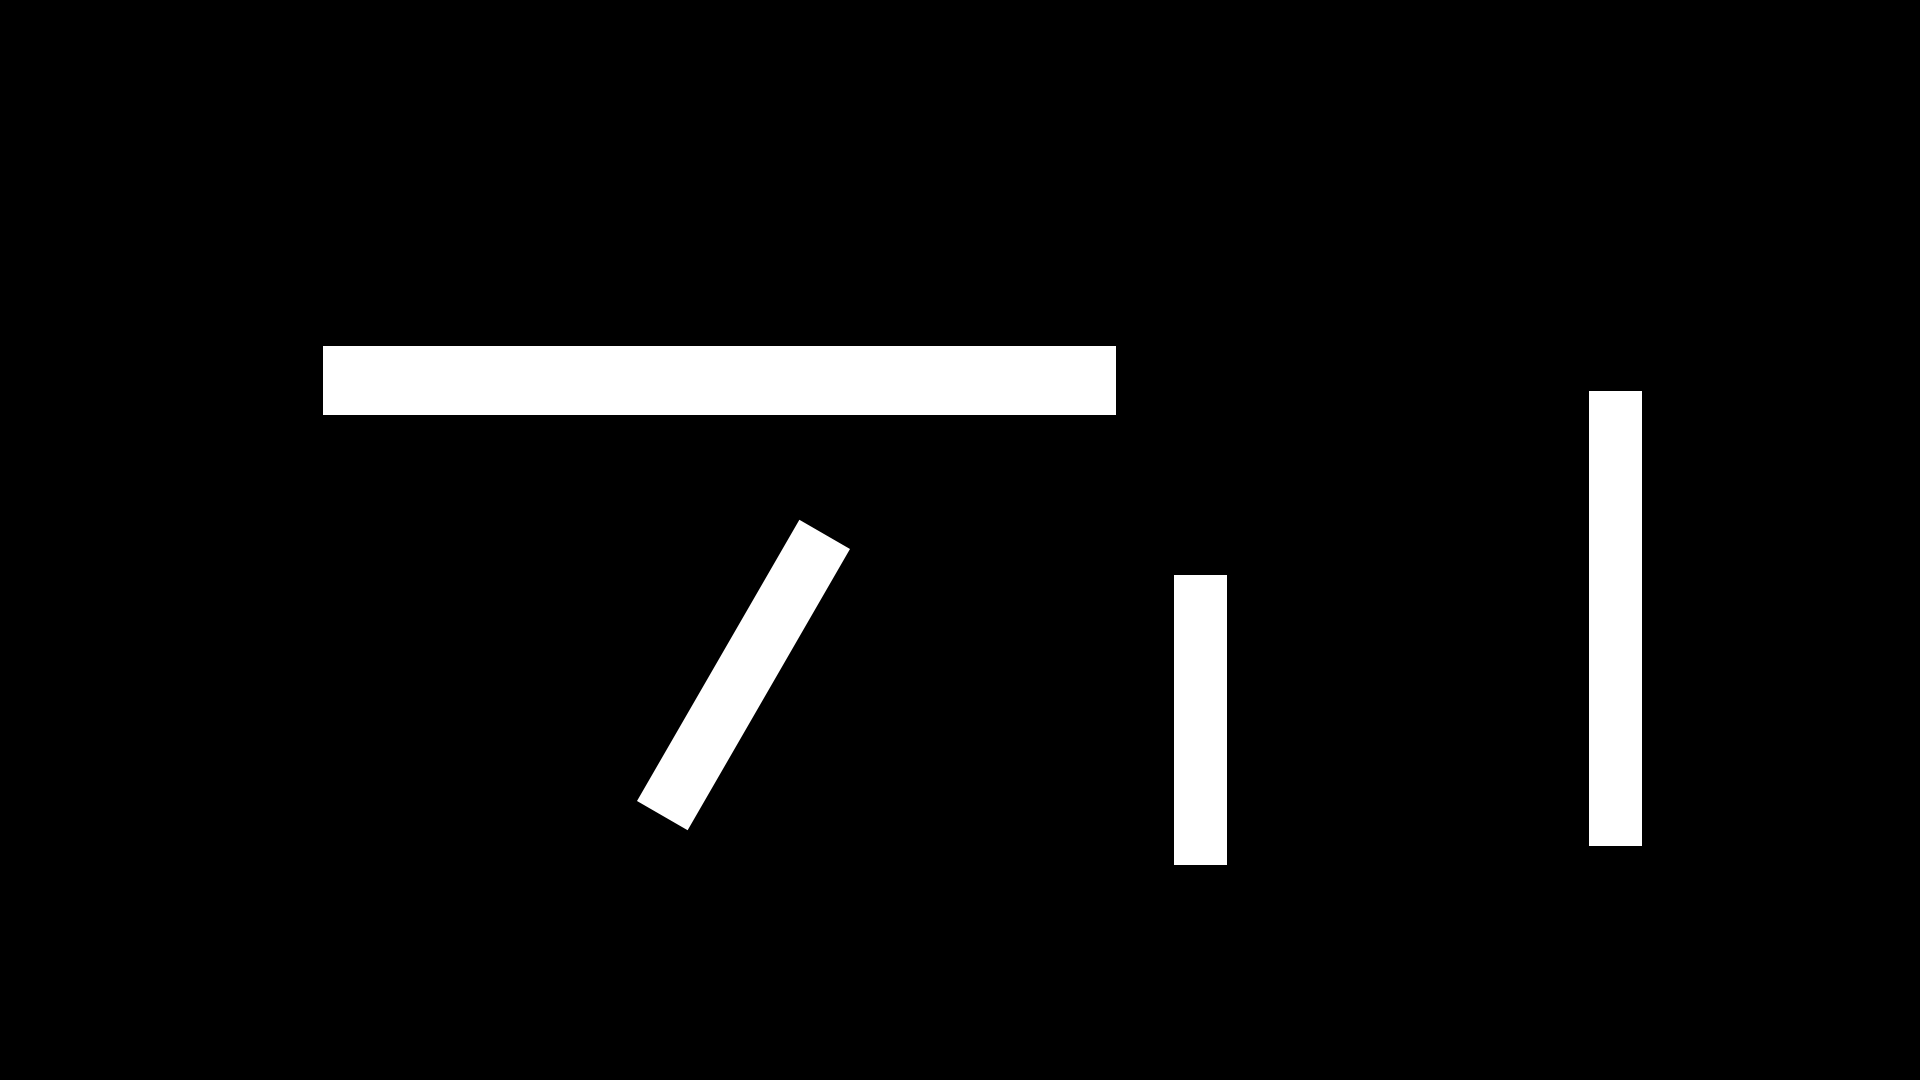
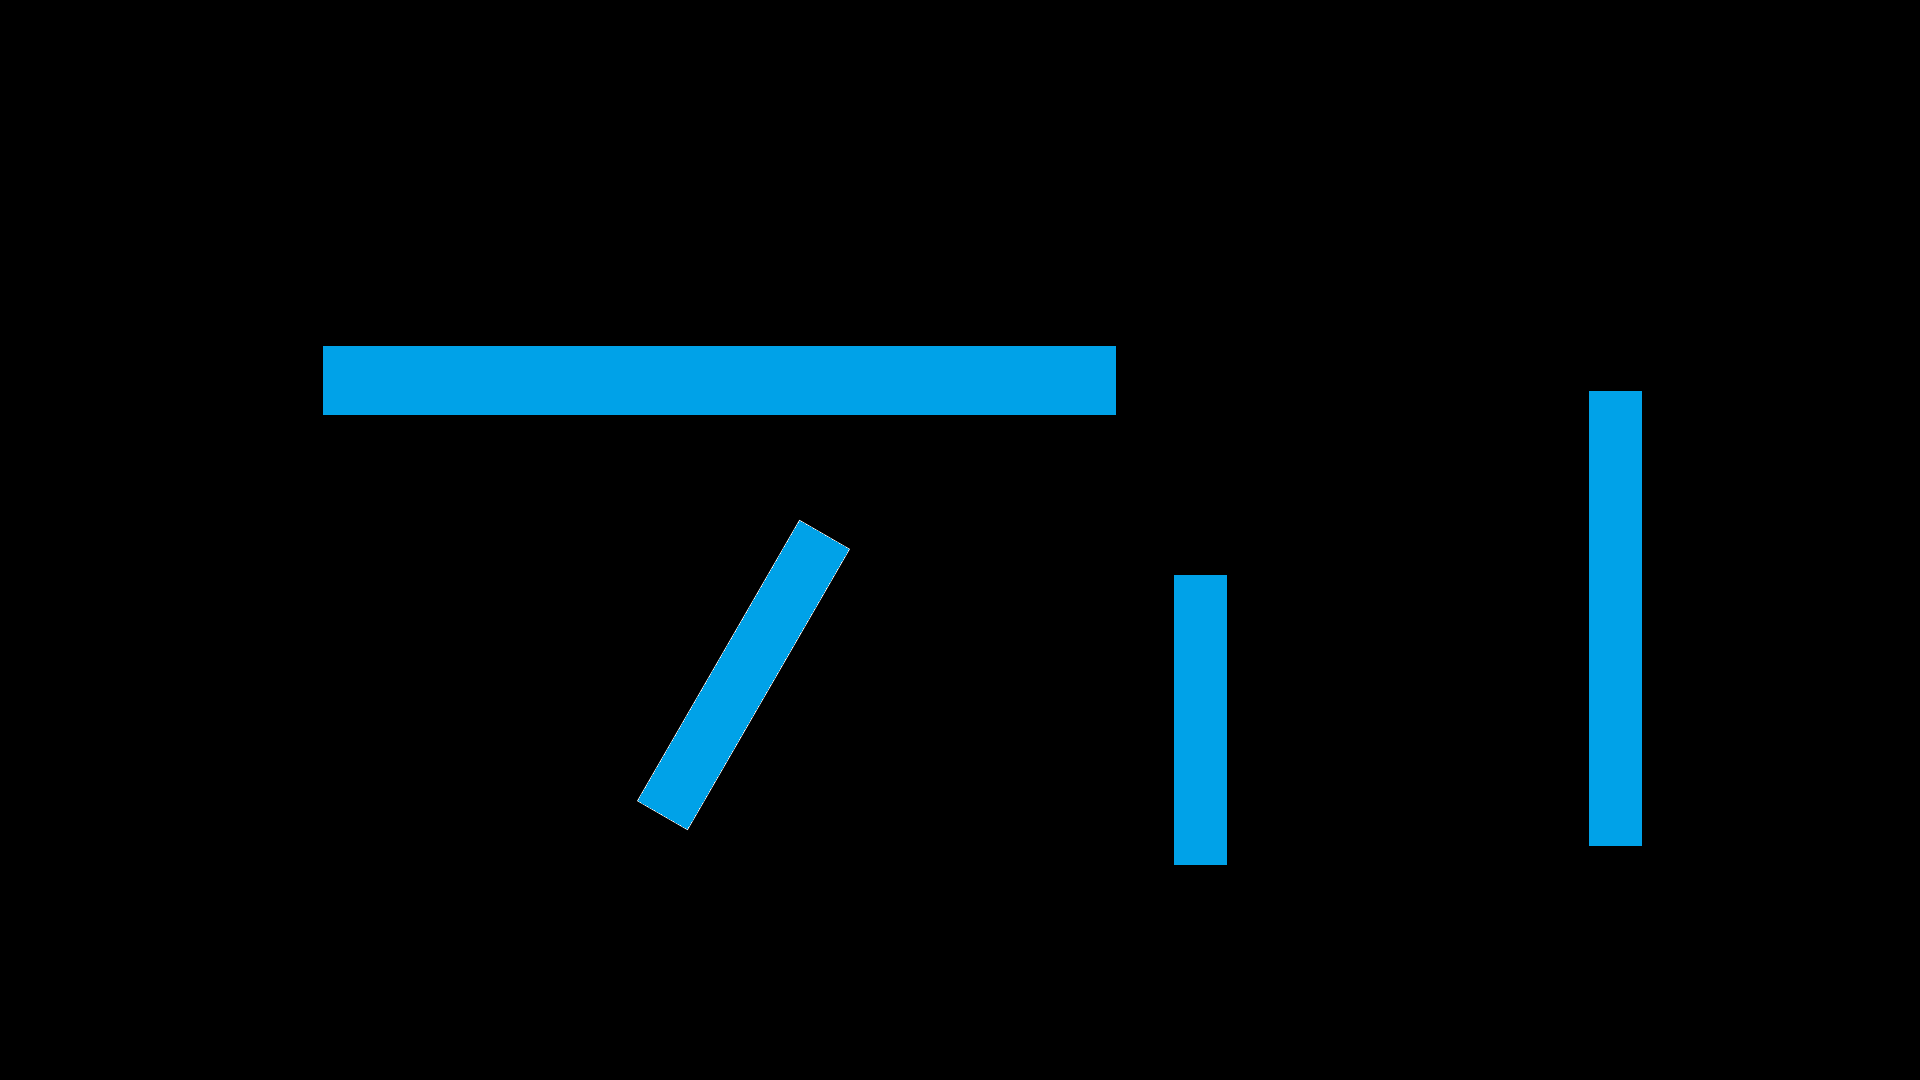
checkpoint vfx

diff --git a/layerbloom.css b/layerbloom.css
@@ -60,36 +60,11 @@ body::after {
   --get-rotX3d: 0deg;
 }
 
-/* ================= bloomsurface ================= */
-.bloomsurface {
-  position: absolute;
-  transform-style: preserve-3d;
-}
-
-.scene .bloomsurface img {
-  width: 100%;
-  height: 100%;
-  object-fit: cover;
-  filter: brightness(var(--brightness));
-}
-
-/* ================= INFO PANEL ================= */
-#info {
-  position: fixed;
-  top: 10px;
-  left: 10px;
-  background: rgba(0, 0, 0, 0.85);
-  color: #00ff00;
-  font-family: monospace;
-  font-size: 14px;
-  padding: 10px;
-  z-index: 9999;
-  border-radius: 6px;
-}
-
 /* ================= LAYERS ================= */
-#layer1 {
-  position: relative;
+
+.layer-surface {
+  position: absolute;
+  inset: 0;
   z-index: 0;
 }
 
@@ -97,16 +72,15 @@ body::after {
   position: absolute;
   inset: 0;
   z-index: 1;
-
   pointer-events: none;
   background-color: black;
-
   filter: blur(10px) brightness(calc(2 + var(--rand)));
   mix-blend-mode: screen;
 }
 
 #layer3 {
   position: absolute;
+  inset: 0;
   z-index: 1;
   pointer-events: none;
   background-color: black;
@@ -114,45 +88,19 @@ body::after {
   mix-blend-mode: screen;
 }
 
-.scene .planet .bloomsurface .fixed-rotate img{
-    width: 100%;
-    height: 100%;
-    object-fit: cover;
-    filter: brightness(var(--brightness));
-}
-/* //------------------- */
-
-#info {
-  position: fixed;
-  top: 10px;
-  left: 10px;
-  background: rgba(0,0,0,0.85);
-  color: #00ff00;
-  font-family: monospace;
-  font-size: 14px;
-  padding: 10px;
-  z-index: 9999;
-  border-radius: 6px;
+#layer2 .orignial-image-scene{
+  background-image:url("image/info/TestVFXGlow.png");
 }
 
-#layer1 {
-  position: relative; /* ikut aliran normal container */
-  transform-style: preserve-3d; /* rotasi tetap aman */
+#layer3 .orignial-image-scene{
+  background-image:url("image/info/TestVFXGlow.png");
 }
 
 #layer2 .inanimate-objects {
   filter: brightness(0);
-  background-color: black;
-}
-
-#layer2 .orignial-image-scene{
-  background-image:url("image/info/TestVFXGlow.png");
-  z-index:10;
-  filter: brightness(1);
 }
 
 #layer3 .inanimate-objects {
   filter: brightness(0);
-  background-color: black;
 }
 

diff --git a/scriptsystem.js b/scriptsystem.js
@@ -1,0 +1,19 @@
+window.addEventListener("scroll", () => {
+  const rotX3d = window.scrollY * 0.25;
+  document.documentElement.style.setProperty("--rotX3d", rotX3d + "deg");
+});
+
+
+function updateViewportVars() {
+  const root = document.documentElement;
+
+  root.style.setProperty("--window-width", window.innerWidth + "px");
+  root.style.setProperty("--window-height", window.innerHeight + "px");
+  root.style.setProperty("--scrollXport", window.scrollX + "px");
+  root.style.setProperty("--scrollYport", window.scrollY + "px");
+}
+
+window.addEventListener("resize", updateViewportVars);
+window.addEventListener("scroll", updateViewportVars);
+
+updateViewportVars();

diff --git a/portfolio.html b/portfolio.html
@@ -36,7 +36,8 @@
   </head>
 
   <div id="set-script-bloomsurface" hidden>
-        <div class="orignial-image-scene original-glow"></div>
+        <div class="orignial-image-scene"></div>
+
         <!-- </nav> navbar utama diatas -->
         <nav class="navbar bg-dark p-5 inanimate-objects"></nav>
         <nav class="line-bottom d-flex justify-content-center py-3 mb-4 navbar fixed-top blur-box inanimate-objects">
@@ -66,7 +67,7 @@
 
         <!-- text tulisan backdrop -->
 
-        <div id="myCarousel" class="carousel slide inanimate-objects" data-bs-ride="carousel">
+        <!-- <div id="myCarousel" class="carousel slide inanimate-objects" data-bs-ride="carousel">
           <ol class="carousel-indicators">
             <li data-bs-target="#myCarousel" data-bs-slide-to="0" class="active"></li>
             <li data-bs-target="#myCarousel" data-bs-slide-to="1"></li>
@@ -115,7 +116,7 @@
             <span class="carousel-control-next-icon" aria-hidden="true"></span>
             <span class="visually-hidden">Next</span>
           </a>
-        </div>
+        </div> -->
         <div>
           <br></br>
           <!-- Marketing messaging and featurettes
@@ -377,6 +378,8 @@ document.querySelectorAll(".view-script-bloomsurface").forEach(view => {
 
       if (view.closest("#layer2")) {
         view.appendChild(el);       // tetap di layer2
+      } else if (view.closest("#layer3")) {
+        view.appendChild(el);       // tetap di layer3
       } else {
         document.body.prepend(el);  // original glow
       }
@@ -391,5 +394,6 @@ document.querySelectorAll(".view-script-bloomsurface").forEach(view => {
 </script>
 
 <script src="scriptbloom.js"></script>
+<script src="scriptsystem.js"></script>
 <script src="random_value_px.js"></script>
 <script src="bloom.js"></script>